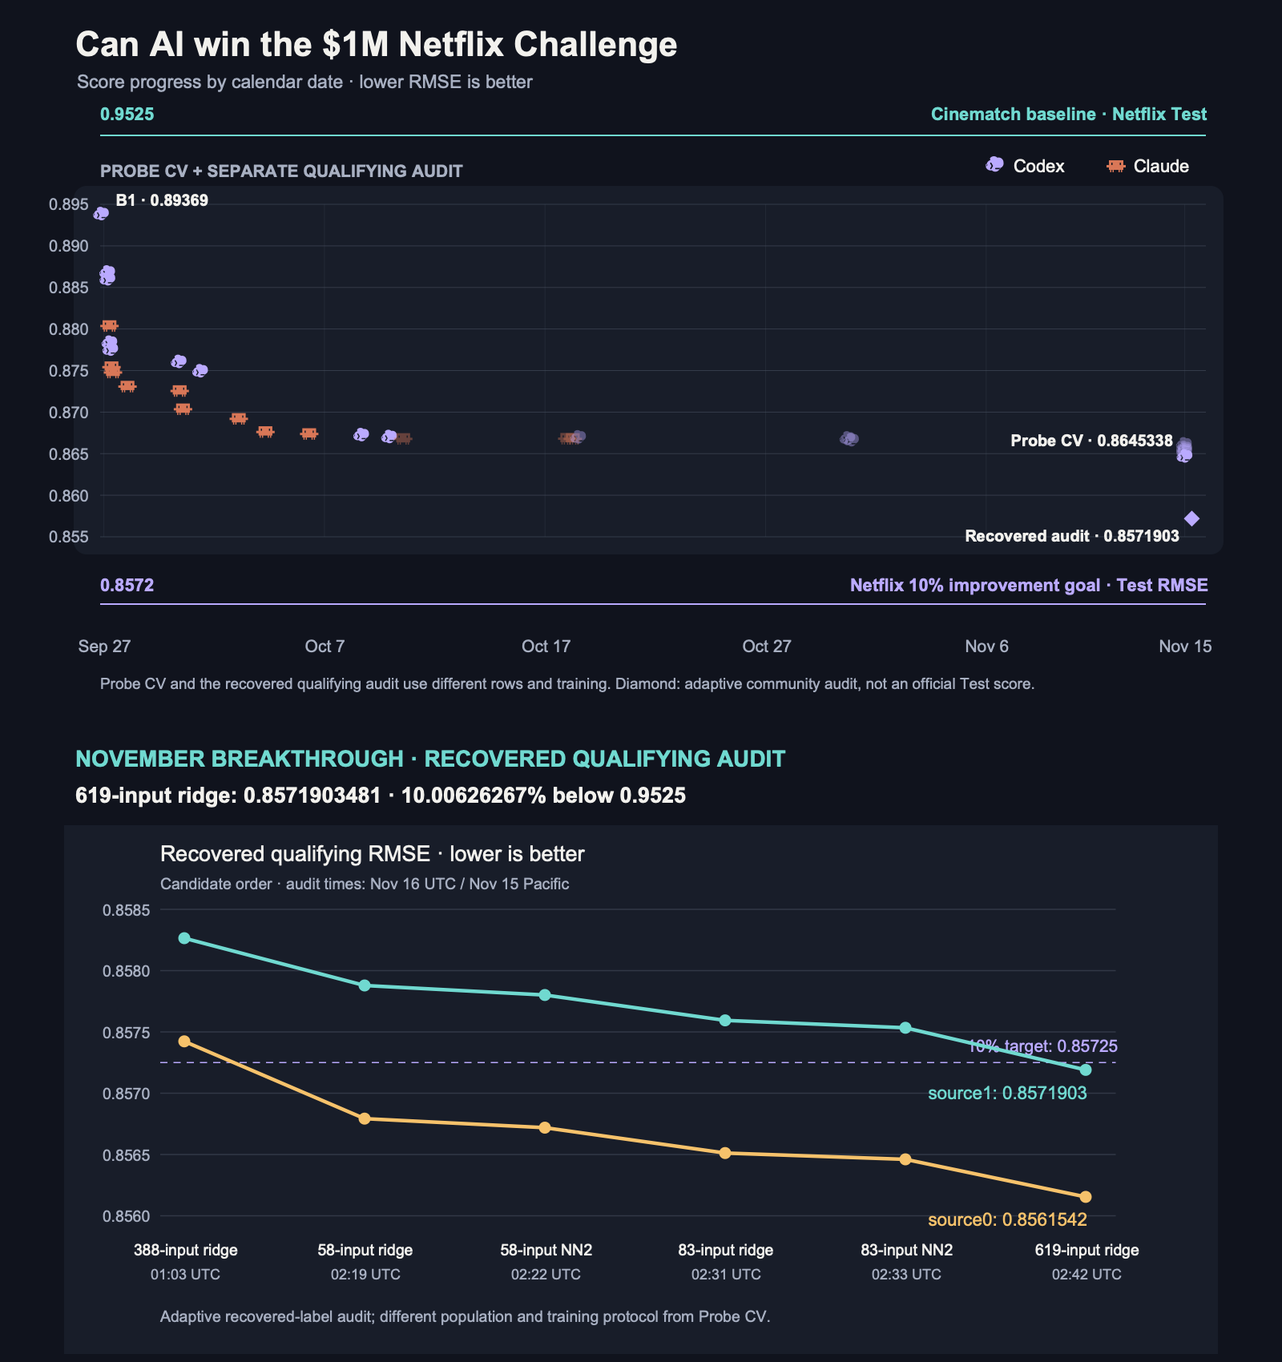
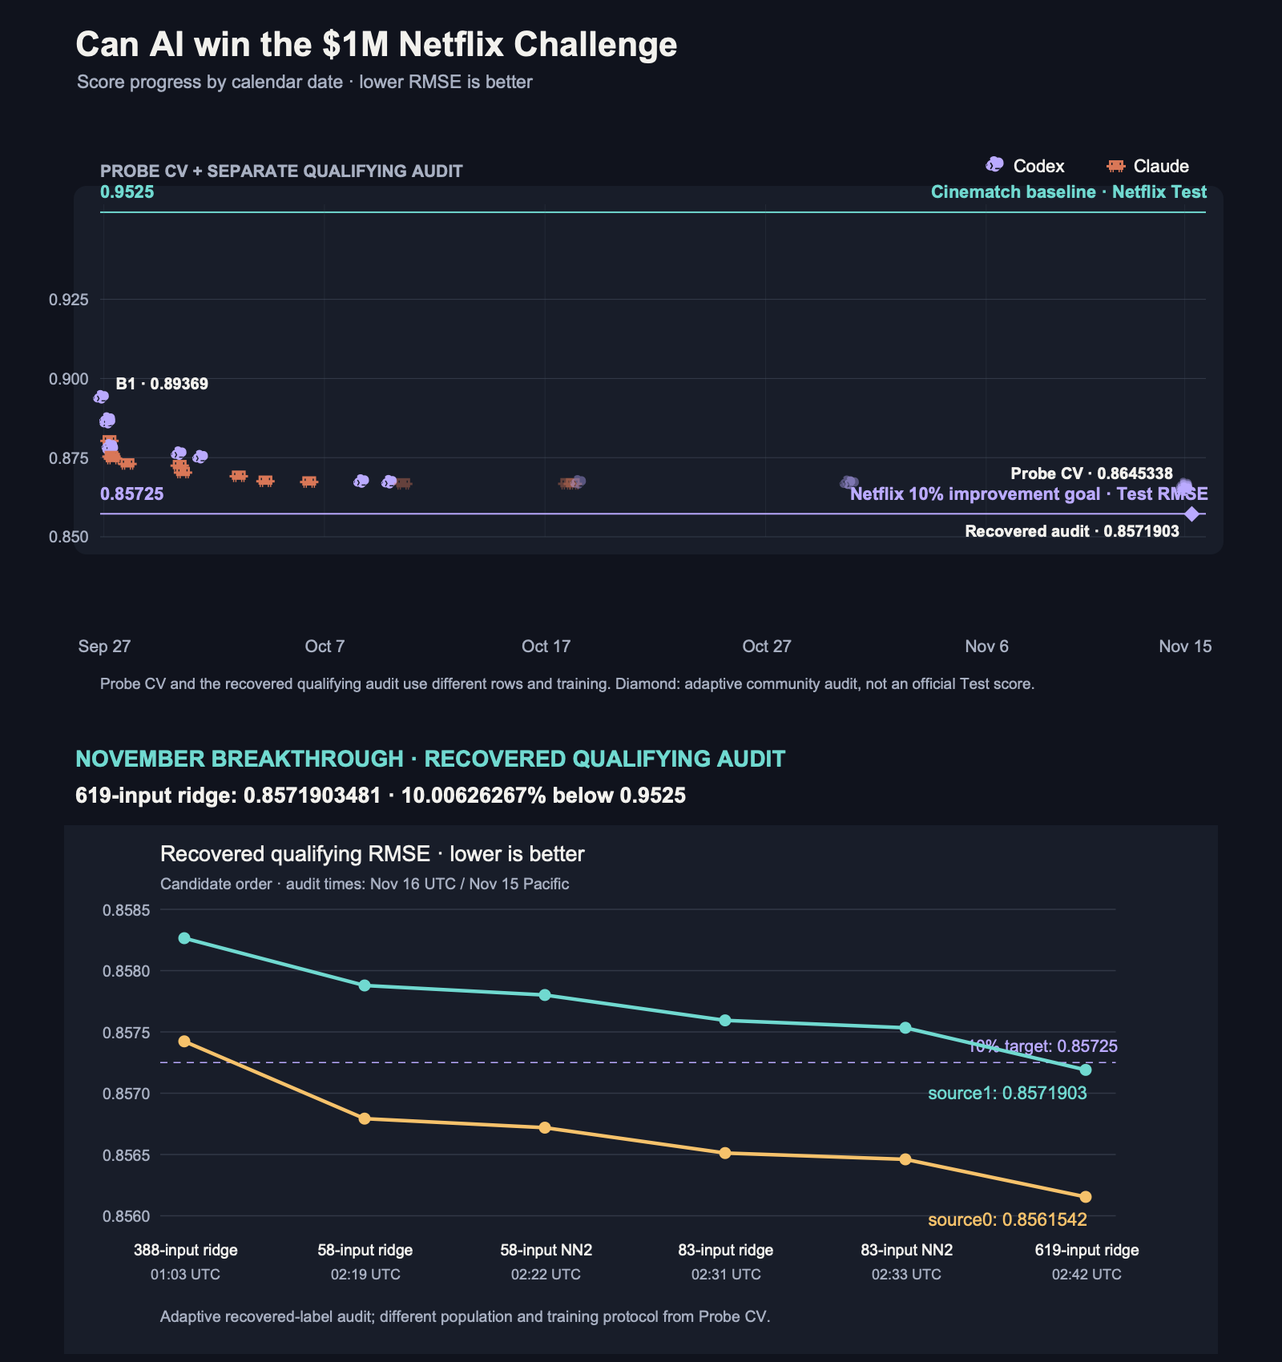
Correct graph scale and explain the evaluation change behind the apparent jump

diff --git a/research_journey.html b/research_journey.html
@@ -40,8 +40,8 @@
     <section id="timeline" aria-labelledby="timeline-title">
       <div class="section-head"><div><div class="section-num">01 / Calendar time</div><h2 id="timeline-title">Overall progress · September–November</h2></div></div>
       <div class="panel">
-        <div class="early-records">The chart begins at B1 and now runs through November 15 Pacific. Logos show Probe development; faded markers are unpromoted screens. The separate violet diamond shows the recovered qualifying audit on a different population. <a href="INTERMEDIATE_PROGRESS.md">Intermediate experiment evidence</a>. <a href="RESULTS.md">Full early record</a>.</div>
-        <div class="chart-head"><h3>Probe CV and qualifying audit by real date</h3><span class="small">Begins at B1 · 0.8936901</span></div>
+        <div class="early-records">The chart begins at B1 and runs through November 15 Pacific. <strong>PUB466 → QUAL619 is an evaluation change, not a measured 0.00734 improvement.</strong> Probe CV and recovered qualifying audits use different rows and training setups. Logos show Probe development; faded markers are unpromoted screens. The separate violet diamond shows the recovered qualifying audit on a different population. <a href="INTERMEDIATE_PROGRESS.md">Intermediate experiment evidence</a>. <a href="RESULTS.md">Full early record</a>.</div>
+        <div class="chart-head"><h3>Probe CV and qualifying audit by real date</h3><span class="small">Continuous RMSE scale · 0.850–0.955</span></div>
         <div class="controls strategy-controls" id="strategy-controls" role="group" aria-label="Highlight strategy"></div>
         <div class="chart-shell" id="timeline-shell"><svg id="timeline-chart" viewBox="0 0 960 620" role="img" aria-label="Probe CV through November 15, with a separate recovered qualifying audit diamond and the 0.85725 target; different evaluation populations"></svg><div class="tooltip" id="timeline-tip" role="status"></div></div>
[1 lines of base64/hex data omitted]
@@ -110,11 +110,11 @@
 <text x="850" y="358" fill="#f2f1ed" font-family="Arial,Helvetica,sans-serif" font-size="13" text-anchor="middle">619-input ridge</text>
 <text x="850" y="378" fill="#a8b0c2" font-family="Arial,Helvetica,sans-serif" font-size="12" text-anchor="middle">02:42 UTC</text>
 <text x="80" y="413" fill="#a8b0c2" font-family="Arial,Helvetica,sans-serif" font-size="13" text-anchor="start">Adaptive recovered-label audit; different population and training protocol from Probe CV.</text>
-</svg></div><p class="competition-intro">The final matched ridge comparison improved source1 from 0.8575942 with 83 inputs to 0.8571903 with 619, using the same context design and alpha 0.001. These selected candidates show the path to the winner, not every attempted run.</p></div>
+</svg></div><p class="competition-intro"><strong>This separate chart zooms to RMSE 0.8560–0.8585.</strong> It compares the same recovered qualifying groups throughout; unlike the overall graph, it can show measured candidate-to-candidate changes. The final matched ridge comparison improved source1 from 0.8575942 with 83 inputs to 0.8571903 with 619, using the same context design and alpha 0.001. These selected candidates show the path to the winner, not every attempted run.</p></div>
       <div class="arc" style="margin-top:20px">
         <article data-no="01"><span class="tag">Reuse + audit</span><h3>Combine existing research</h3><p>536 public individual collaborative-filtering predictions, 77 audited Probe/ProbeX-fitted blend outputs, and six local inputs formed the final 619-column bank. Prediction pairs and row mapping made reuse possible; final Quiz-fitted source ensembles were excluded.</p></article>
         <article data-no="02"><span class="tag">Decisive gain</span><h3>Keep raw signal beside blends</h3><p>Compressed blend outputs helped, but keeping the individual CF predictions alongside them delivered the last 0.0004039 RMSE improvement. Five user, movie and date contexts let a regularized ridge vary its weights.</p></article>
-        <article data-no="03"><span class="tag">Why hours after a month?</span><h3>Integration changed the pace</h3><p>The approximately 8h 38m optimization run reused earlier local work and substantial external pretraining. The final expansion took minutes; hundreds of models were not trained from scratch in that time. <a href="BREAKTHROUGH.md">Read the full retrospective</a>.</p></article>
+        <article data-no="03"><span class="tag">Why hours after a month?</span><h3>Integration changed the pace</h3><p>PUB466 finished at 11:14 am Pacific and QUAL619 was audited at 6:42 pm: 7h 28m apart, on different evaluation sets. The approximately 8h 38m optimization run reused earlier local work and substantial external pretraining. The final expansion took minutes; hundreds of models were not trained from scratch in that time. <a href="BREAKTHROUGH.md">Read the full retrospective</a>.</p></article>
       </div>
       <div class="note"><strong>Development remains separate:</strong> the best entire-original-Probe nested user-fold development result is now <strong>0.8645337528</strong> from the 466-base local/public NN2. Alternative ProbeX development reached 0.8565023 on a different population. Production refits include the original Probe ratings; the final ridge fits known ProbeX labels. Upstream intermediate blends prevent an independent nested-CV claim for the final stack. <a href="QUALIFYING_PROGRESS.md">Audit trail</a> · <a href="experiments/QUAL-target-final-result-20261116.json">Verification receipt</a>.</div>
     </section>
@@ -177,16 +177,16 @@
   let strategy = 'All';
   const dateMin = Date.parse(DATA.milestones[0].time), dateMax = Math.max(...DATA.milestones.map(d=>Date.parse(d.time)))+864e5;
   const sx = t => 72+(Date.parse(t)-dateMin)/(dateMax-dateMin)*830;
-  const sy = score => 443-(score-.855)/(.895-.855)*298;
+  const sy = score => 443-(score-.850)/(.955-.850)*350;
   function textNode(x,y,value,cls,anchor){const e=svgEl('text',{x,y,class:cls,'text-anchor':anchor||'start'});e.textContent=value;return e;}
   function showTip(tip,shell,text,x,y){tip.innerHTML=text;tip.style.display='block';const sw=shell.clientWidth,tw=tip.offsetWidth;tip.style.left=Math.max(8,Math.min(sw-tw-8,x))+'px';tip.style.top=Math.max(4,y-12-tip.offsetHeight)+'px';}
   function hideTip(tip){tip.style.display='none';}
   function selectMilestone(d,scrollToRow=false){selected=d;hideTip($('timeline-tip'));drawTimeline();renderRows();if(scrollToRow)$('milestone-rows').querySelector('tr.active')?.scrollIntoView({behavior:'smooth',block:'center'});}
-  function drawTimeline(){const svg=$('timeline-chart');clear(svg);const ticks=[.855,.86,.865,.87,.875,.88,.885,.89,.895];
-    svg.append(textNode(72,27,'RMSE ↓ lower is better','axis-title'));
-    svg.append(svgEl('line',{x1:72,y1:84,x2:902,y2:84,class:'benchmark-line'}));
-    svg.append(textNode(61,88,'0.9525','axis','end'));
-    svg.append(textNode(902,70,'Cinematch · Netflix Test reference','benchmark-label','end'));
+  function drawTimeline(){const svg=$('timeline-chart');clear(svg);const ticks=[.850,.875,.900,.925];
+    svg.append(textNode(72,27,'RMSE ↓ continuous scale · 0.850–0.955','axis-title'));
+    svg.append(svgEl('line',{x1:72,y1:sy(.9525),x2:902,y2:sy(.9525),class:'benchmark-line'}));
+    svg.append(textNode(61,sy(.9525)+4,'0.9525','axis','end'));
+    svg.append(textNode(902,sy(.9525)-14,'Cinematch · Netflix Test reference','benchmark-label','end'));
     for(const v of ticks){const y=sy(v);svg.append(svgEl('line',{x1:72,y1:y,x2:902,y2:y,class:'grid'}));svg.append(textNode(61,y+4,v.toFixed(3),'axis','end'));}
     svg.append(svgEl('line',{x1:72,y1:sy(.85725),x2:902,y2:sy(.85725),class:'goal-line'}));
     svg.append(textNode(61,sy(.85725)+4,'0.85725','axis','end'));
@@ -219,7 +219,7 @@
   function drawCompetition(){const svg=$('competition-chart');clear(svg);const maxDays=competitionZoom?60:fullDays;
     const x=days=>72+days/maxDays*832;
     const y=score=>310-(score-.85)/(.955-.85)*250;
-    svg.append(textNode(72,30,'RMSE ↓ lower is better · distinct evaluation sets','axis-title'));
+    svg.append(textNode(72,30,'RMSE ↓ continuous scale · distinct evaluation sets','axis-title'));
     for(const score of [.95,.925,.9,.875,.85]){const yy=y(score);svg.append(svgEl('line',{x1:72,y1:yy,x2:904,y2:yy,class:'grid'}));svg.append(textNode(61,yy+4,score.toFixed(3),'axis','end'));}
     const goalY=y(.8563);svg.append(svgEl('line',{x1:72,y1:goalY,x2:904,y2:goalY,class:'competition-guide'}));svg.append(textNode(76,goalY-8,'10% Quiz threshold · 0.8563','goal-label'));
     const ticks=competitionZoom?[[0,'0'],[15,'15'],[30,'30'],[45,'45'],[60,'60']]:[[0,'0'],[365,'1 year'],[730,'2 years'],[fullDays,'1,028 days']];

diff --git a/research_journey.template.html b/research_journey.template.html
@@ -40,8 +40,8 @@
     <section id="timeline" aria-labelledby="timeline-title">
       <div class="section-head"><div><div class="section-num">01 / Calendar time</div><h2 id="timeline-title">Overall progress · September–November</h2></div></div>
       <div class="panel">
-        <div class="early-records">The chart begins at B1 and now runs through November 15 Pacific. Logos show Probe development; faded markers are unpromoted screens. The separate violet diamond shows the recovered qualifying audit on a different population. <a href="INTERMEDIATE_PROGRESS.md">Intermediate experiment evidence</a>. <a href="RESULTS.md">Full early record</a>.</div>
-        <div class="chart-head"><h3>Probe CV and qualifying audit by real date</h3><span class="small">Begins at B1 · 0.8936901</span></div>
+        <div class="early-records">The chart begins at B1 and runs through November 15 Pacific. <strong>PUB466 → QUAL619 is an evaluation change, not a measured 0.00734 improvement.</strong> Probe CV and recovered qualifying audits use different rows and training setups. Logos show Probe development; faded markers are unpromoted screens. The separate violet diamond shows the recovered qualifying audit on a different population. <a href="INTERMEDIATE_PROGRESS.md">Intermediate experiment evidence</a>. <a href="RESULTS.md">Full early record</a>.</div>
+        <div class="chart-head"><h3>Probe CV and qualifying audit by real date</h3><span class="small">Continuous RMSE scale · 0.850–0.955</span></div>
         <div class="controls strategy-controls" id="strategy-controls" role="group" aria-label="Highlight strategy"></div>
         <div class="chart-shell" id="timeline-shell"><svg id="timeline-chart" viewBox="0 0 960 620" role="img" aria-label="Probe CV through November 15, with a separate recovered qualifying audit diamond and the 0.85725 target; different evaluation populations"></svg><div class="tooltip" id="timeline-tip" role="status"></div></div>
         <div class="legend"><span>Tap a marker for its record · faded = unpromoted · violet diamond = recovered audit</span><span><img class="model-logo" src="__CLAUDE_LOGO__" alt="">Claude</span><span><img class="model-logo codex-logo" src="__CODEX_LOGO__" alt="">Codex</span></div>
@@ -61,11 +61,11 @@
     <section id="breakthrough" aria-labelledby="breakthrough-title">
       <div class="section-head"><div><div class="section-num">Latest / November 15 Pacific · November 16 UTC</div><h2 id="breakthrough-title">The 10% target, reached locally</h2></div><p>The frozen 619-input contextual ridge crosses 0.85725 on both recovered qualifying groups. Independent scoring and inference replay verify the saved predictions.</p></div>
       <div class="comparison-note"><div class="comparison-metric"><span class="comparison-kicker">Verified recovered-label result</span><strong class="comparison-score">0.85719</strong><span class="small">Source1 · 1,408,342 ratings</span><span class="comparison-status">10.00626267% below 0.9525</span></div><div><h3>Both recovered groups pass</h3><p>Source0: <strong>0.8561542082</strong> on 1,408,789 ratings. The worse group clears the target by 0.0000596519 RMSE.</p><p class="comparison-caveat">This is adaptive evaluation using community-recovered qualifying labels, not official Netflix scoring or an untouched private Test. Group counts conflict with published Quiz/Test counts, so source0/source1 names are preserved. Repeated audits and upstream public-Quiz selection limit the generalization claim.</p></div></div>
-      <div class="panel" style="margin-top:24px"><div class="chart-head"><h3>The final integration sequence</h3><span class="small">Same recovered groups · separate from Probe CV</span></div><div class="chart-shell competition-shell">__QUALIFYING_GRAPH__</div><p class="competition-intro">The final matched ridge comparison improved source1 from 0.8575942 with 83 inputs to 0.8571903 with 619, using the same context design and alpha 0.001. These selected candidates show the path to the winner, not every attempted run.</p></div>
+      <div class="panel" style="margin-top:24px"><div class="chart-head"><h3>The final integration sequence</h3><span class="small">Same recovered groups · separate from Probe CV</span></div><div class="chart-shell competition-shell">__QUALIFYING_GRAPH__</div><p class="competition-intro"><strong>This separate chart zooms to RMSE 0.8560–0.8585.</strong> It compares the same recovered qualifying groups throughout; unlike the overall graph, it can show measured candidate-to-candidate changes. The final matched ridge comparison improved source1 from 0.8575942 with 83 inputs to 0.8571903 with 619, using the same context design and alpha 0.001. These selected candidates show the path to the winner, not every attempted run.</p></div>
       <div class="arc" style="margin-top:20px">
         <article data-no="01"><span class="tag">Reuse + audit</span><h3>Combine existing research</h3><p>536 public individual collaborative-filtering predictions, 77 audited Probe/ProbeX-fitted blend outputs, and six local inputs formed the final 619-column bank. Prediction pairs and row mapping made reuse possible; final Quiz-fitted source ensembles were excluded.</p></article>
         <article data-no="02"><span class="tag">Decisive gain</span><h3>Keep raw signal beside blends</h3><p>Compressed blend outputs helped, but keeping the individual CF predictions alongside them delivered the last 0.0004039 RMSE improvement. Five user, movie and date contexts let a regularized ridge vary its weights.</p></article>
-        <article data-no="03"><span class="tag">Why hours after a month?</span><h3>Integration changed the pace</h3><p>The approximately 8h 38m optimization run reused earlier local work and substantial external pretraining. The final expansion took minutes; hundreds of models were not trained from scratch in that time. <a href="BREAKTHROUGH.md">Read the full retrospective</a>.</p></article>
+        <article data-no="03"><span class="tag">Why hours after a month?</span><h3>Integration changed the pace</h3><p>PUB466 finished at 11:14 am Pacific and QUAL619 was audited at 6:42 pm: 7h 28m apart, on different evaluation sets. The approximately 8h 38m optimization run reused earlier local work and substantial external pretraining. The final expansion took minutes; hundreds of models were not trained from scratch in that time. <a href="BREAKTHROUGH.md">Read the full retrospective</a>.</p></article>
       </div>
       <div class="note"><strong>Development remains separate:</strong> the best entire-original-Probe nested user-fold development result is now <strong>0.8645337528</strong> from the 466-base local/public NN2. Alternative ProbeX development reached 0.8565023 on a different population. Production refits include the original Probe ratings; the final ridge fits known ProbeX labels. Upstream intermediate blends prevent an independent nested-CV claim for the final stack. <a href="QUALIFYING_PROGRESS.md">Audit trail</a> · <a href="experiments/QUAL-target-final-result-20261116.json">Verification receipt</a>.</div>
     </section>
@@ -128,16 +128,16 @@
   let strategy = 'All';
   const dateMin = Date.parse(DATA.milestones[0].time), dateMax = Math.max(...DATA.milestones.map(d=>Date.parse(d.time)))+864e5;
   const sx = t => 72+(Date.parse(t)-dateMin)/(dateMax-dateMin)*830;
-  const sy = score => 443-(score-.855)/(.895-.855)*298;
+  const sy = score => 443-(score-.850)/(.955-.850)*350;
   function textNode(x,y,value,cls,anchor){const e=svgEl('text',{x,y,class:cls,'text-anchor':anchor||'start'});e.textContent=value;return e;}
   function showTip(tip,shell,text,x,y){tip.innerHTML=text;tip.style.display='block';const sw=shell.clientWidth,tw=tip.offsetWidth;tip.style.left=Math.max(8,Math.min(sw-tw-8,x))+'px';tip.style.top=Math.max(4,y-12-tip.offsetHeight)+'px';}
   function hideTip(tip){tip.style.display='none';}
   function selectMilestone(d,scrollToRow=false){selected=d;hideTip($('timeline-tip'));drawTimeline();renderRows();if(scrollToRow)$('milestone-rows').querySelector('tr.active')?.scrollIntoView({behavior:'smooth',block:'center'});}
-  function drawTimeline(){const svg=$('timeline-chart');clear(svg);const ticks=[.855,.86,.865,.87,.875,.88,.885,.89,.895];
-    svg.append(textNode(72,27,'RMSE ↓ lower is better','axis-title'));
-    svg.append(svgEl('line',{x1:72,y1:84,x2:902,y2:84,class:'benchmark-line'}));
-    svg.append(textNode(61,88,'0.9525','axis','end'));
-    svg.append(textNode(902,70,'Cinematch · Netflix Test reference','benchmark-label','end'));
+  function drawTimeline(){const svg=$('timeline-chart');clear(svg);const ticks=[.850,.875,.900,.925];
+    svg.append(textNode(72,27,'RMSE ↓ continuous scale · 0.850–0.955','axis-title'));
+    svg.append(svgEl('line',{x1:72,y1:sy(.9525),x2:902,y2:sy(.9525),class:'benchmark-line'}));
+    svg.append(textNode(61,sy(.9525)+4,'0.9525','axis','end'));
+    svg.append(textNode(902,sy(.9525)-14,'Cinematch · Netflix Test reference','benchmark-label','end'));
     for(const v of ticks){const y=sy(v);svg.append(svgEl('line',{x1:72,y1:y,x2:902,y2:y,class:'grid'}));svg.append(textNode(61,y+4,v.toFixed(3),'axis','end'));}
     svg.append(svgEl('line',{x1:72,y1:sy(.85725),x2:902,y2:sy(.85725),class:'goal-line'}));
     svg.append(textNode(61,sy(.85725)+4,'0.85725','axis','end'));
@@ -170,7 +170,7 @@
   function drawCompetition(){const svg=$('competition-chart');clear(svg);const maxDays=competitionZoom?60:fullDays;
     const x=days=>72+days/maxDays*832;
     const y=score=>310-(score-.85)/(.955-.85)*250;
-    svg.append(textNode(72,30,'RMSE ↓ lower is better · distinct evaluation sets','axis-title'));
+    svg.append(textNode(72,30,'RMSE ↓ continuous scale · distinct evaluation sets','axis-title'));
     for(const score of [.95,.925,.9,.875,.85]){const yy=y(score);svg.append(svgEl('line',{x1:72,y1:yy,x2:904,y2:yy,class:'grid'}));svg.append(textNode(61,yy+4,score.toFixed(3),'axis','end'));}
     const goalY=y(.8563);svg.append(svgEl('line',{x1:72,y1:goalY,x2:904,y2:goalY,class:'competition-guide'}));svg.append(textNode(76,goalY-8,'10% Quiz threshold · 0.8563','goal-label'));
     const ticks=competitionZoom?[[0,'0'],[15,'15'],[30,'30'],[45,'45'],[60,'60']]:[[0,'0'],[365,'1 year'],[730,'2 years'],[fullDays,'1,028 days']];

diff --git a/scripts/render_progress_graph.py b/scripts/render_progress_graph.py
@@ -20,7 +20,7 @@ OUT_PNG = ROOT / "assets/progress_graph.png"
 WIDTH, HEIGHT = 1600, 1700
 X0, X1 = 125, 1505
 Y0, Y1 = 255, 670
-SCORE_MIN, SCORE_MAX = .855, .895
+SCORE_MIN, SCORE_MAX = .850, .955
 START = datetime.fromisoformat("2026-09-27T08:00:00-07:00")
 END = datetime.fromisoformat("2026-11-16T18:00:00+00:00")
 
@@ -76,16 +76,16 @@ def icon(name, x, y, size=23):
     )
 
 
-line(X0, 169, X1, 169, "#70d9d0", 2)
-text(X0, 150, "0.9525", "#70d9d0", 22, weight="700")
-text(X1, 150, "Cinematch baseline · Netflix Test", "#70d9d0", 22, "end", "700")
+line(X0, y_at(.9525), X1, y_at(.9525), "#70d9d0", 2)
+text(X0, y_at(.9525)-18, "0.9525", "#70d9d0", 22, weight="700")
+text(X1, y_at(.9525)-18, "Cinematch baseline · Netflix Test", "#70d9d0", 22, "end", "700")
 text(X0, 221, "PROBE CV + SEPARATE QUALIFYING AUDIT", "#a8b0c2", 21, weight="700")
 icon("codex", 1242, 207, 24)
 text(1265, 215, "Codex", "#f2f1ed", 22)
 icon("claude", 1393, 207, 24)
 text(1415, 215, "Claude", "#f2f1ed", 22)
 
-for tick in (.855, .860, .865, .870, .875, .880, .885, .890, .895):
+for tick in (.850, .875, .900, .925):
     y = y_at(tick)
     line(X0, y, X1, y, "#4b5364", 1, .55)
     text(X0 - 16, y + 7, f"{tick:.3f}", "#a8b0c2", 20, "end")
@@ -122,9 +122,9 @@ for ident, label, dx, dy, anchor in (
     row = next(m for m in MILESTONES if m[0] == ident)
     text(x_at(row[2]) + dx, y_at(float(row[1])) + dy, label, "#f2f1ed", 20, anchor, "700")
 
-line(X0, 754, X1, 754, "#baaaff", 2)
-text(X0, 738, "0.8572", "#baaaff", 22, weight="700")
-text(X1, 738, "Netflix 10% improvement goal · Test RMSE", "#baaaff", 22, "end", "700")
+line(X0, y_at(.85725), X1, y_at(.85725), "#baaaff", 2)
+text(X0, y_at(.85725)-18, "0.85725", "#baaaff", 22, weight="700")
+text(X1, y_at(.85725)-18, "Netflix 10% improvement goal · Test RMSE", "#baaaff", 22, "end", "700")
 text(X0, 860, "Probe CV and the recovered qualifying audit use different rows and training. Diamond: adaptive community audit, not an official Test score.", "#a8b0c2", 19)
 audit_svg = runpy.run_path(str(ROOT / "scripts/build_research_journey.py"))["qualifying_svg"]()
 svg.append('<rect x="0" y="900" width="1600" height="800" fill="#10131d"/>')

diff --git a/BREAKTHROUGH.md b/BREAKTHROUGH.md
@@ -16,6 +16,36 @@ verification. It is not official Netflix scoring or an untouched private-test
 result. Those distinctions matter when explaining both the achievement and
 the apparent speedup.
 
+## What the apparent PUB466 → QUAL619 jump does and does not show
+
+PUB466's **0.8645337528** is original-Probe user-fold development CV;
+QUAL619's **0.8571903481** is a recovered qualifying audit after production
+refits and public pretrained blend integration. The **0.0073434** difference
+is across evaluation populations and training protocols. It cannot be
+attributed to a one-hour algorithmic improvement or used to calculate an
+apples-to-apples gain. Those records are actually **7h 28m apart**:
+November 15 at 11:14 am and 6:42 pm Pacific.
+
+On the same recovered source1 population, the initial 385-input control
+scores **0.8587390514**, and the final result is **0.8571903481**: an observed
+reduction of **0.0015487**. The closely matched final ridge comparison is
+**0.8575942364 → 0.8571903481**, a reduction of **0.0004038883**. These
+remain adaptive local measurements, with different upstream model histories.
+
+The overall graphs now use the same continuous **0.850–0.955** vertical
+range, including Cinematch at its actual scale position. Earlier versions
+zoomed the Probe axis to 0.855–0.895 and placed Cinematch in a separate
+reference band; visual distances there were not proportional across bands.
+The separate qualifying-detail graph explicitly labels its tighter zoom.
+
+Independent numerical rescoring verifies arithmetic and artifact consistency.
+It does not rule out every upstream information leak, remove selection bias,
+authenticate recovered historical Test membership, or establish performance
+on an untouched holdout. The recorded final-model policy acknowledges source
+hyperparameter adaptation to public Quiz, and the local qualifying audits were
+repeated. A numerical crossing of the historical threshold is a narrower claim
+than reproducing an official Netflix Prize win.
+
 ## What changed from the earlier month of work?
 
 The earlier work built the ingredients: joint factor models, neighborhood
